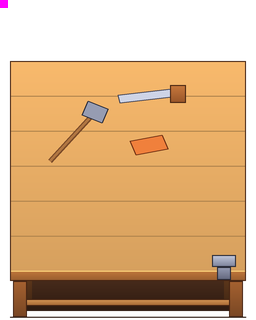
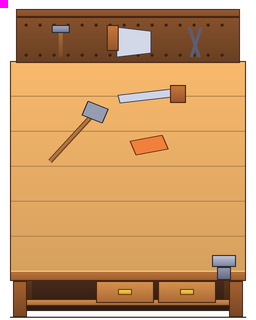
C-011 (WIP): вертикальная дверь коробом, верстак 2×2 различим по повороту, тесты зелёные
- Закрытая вертикальная дверь — короб 0,4 тайла с лицом, оковкой и ручкой; открытая — тёмный порог и упоры в проёме.
- Верстак: ящики с ручками у рабочего края, доска с инструментами напротив (0° — сзади, 90° — у западного края, 180° — у зрителя).
- Тест «нельзя перенести» — ожидание по ячейкам, а не по числу правок.

Changed region(s): [[0.0625, 0.0312, 0.9375, 0.2188], [0.375, 0.875, 0.8438, 0.9688]]

diff --git a/tools/make_furniture.py b/tools/make_furniture.py
@@ -415,10 +415,80 @@ def bench_big(face: str) -> Image.Image:
     p.poly([(130, ty + 40), (162, ty + 34), (168, ty + 48), (136, ty + 54)], (240, 128, 60, 255), (110, 46, 18, 255), 1.0)
     p.poly([(118, ty - 6), (170, ty - 12), (172, ty - 4), (120, ty + 2)], (206, 212, 230, 255), (60, 62, 80, 255), 1.0)
     p.rect(170, ty - 16, 186, ty + 2, (200, 120, 60), (150, 84, 40), edge=edge)
+    # C-011: рабочая сторона видна издалека — ящики с ручками у рабочего края, высокая доска с инструментами напротив него.
+    if face == 's':
+        bench_drawers(p, 96, 216, yf + slab, edge)
+        bench_rack_back(p, x0 + 6, x1 - 6, yb, edge)
+    elif face == 'n':
+        bench_rack_front(p, x0 + 6, x1 - 6, yf + slab, edge)
+    else:
+        bench_rack_west(p, x0, yb, yf, edge)
+        for k, yy in enumerate((yb + 140, yb + 178)):                               # ящики на восточном крае: торцы ручек
+            p.rect(x1 - 30, yy, x1 - 4, yy + 26, (214, 146, 78), (170, 104, 52), edge=edge)
+            p.rect(x1 - 12, yy + 9, x1 - 6, yy + 17, (255, 222, 96), (200, 150, 40), edge=(110, 66, 10, 255))
     p.line([(x0, GROUND), (x1, GROUND)], (40, 22, 12, 255), 1.0)
     img = p.done()
     end_pen()
     return img
+
+
+RACK, RACK_D, PEG = (122, 74, 40), (88, 52, 28), (60, 34, 18)
+
+
+def rack_face(p: Pen, x0, x1, y0, y1, edge):
+    """Лицо доски с инструментами: доска, ряды отверстий, висящие молот, пила, клещи (силуэтами)."""
+    p.rect(x0, y0, x1, y1, mul(RACK, 1.1), mul(RACK, 0.85), edge=edge)
+    for yy in (y0 + 8, y1 - 8):
+        for xx in range(int(x0) + 10, int(x1) - 6, 14):
+            p.ell(xx - 1.5, yy - 1.5, xx + 1.5, yy + 1.5, PEG + (255,))
+    w = x1 - x0
+    hx = x0 + w * 0.2                                                               # молот
+    p.rect(hx - 2, y0 + 10, hx + 2, y1 - 6, (176, 118, 66), (122, 74, 40))
+    p.rect(hx - 9, y0 + 8, hx + 9, y0 + 16, (170, 176, 198), (110, 116, 140), edge=(40, 42, 56, 255))
+    sx = x0 + w * 0.45                                                              # пила
+    p.poly([(sx, y0 + 10), (sx + 34, y0 + 14), (sx + 34, y1 - 10), (sx, y1 - 6)], (210, 216, 232, 255), (60, 62, 80, 255), 1.0)
+    p.rect(sx - 10, y0 + 8, sx + 2, y1 - 12, (200, 120, 60), (150, 84, 40), edge=edge)
+    kx = x0 + w * 0.8                                                               # клещи
+    p.line([(kx - 6, y0 + 10), (kx + 4, y1 - 6)], (90, 94, 116, 255), 3.0)
+    p.line([(kx + 6, y0 + 10), (kx - 4, y1 - 6)], (90, 94, 116, 255), 3.0)
+
+
+def bench_rack_back(p: Pen, x0, x1, yb, edge):
+    """Доска с инструментами вдоль дальнего (северного) края: стоит на столе, лицом к зрителю."""
+    hr, th = 44, 8
+    p.rect(x0, yb - hr - th, x1, yb - hr, mul(RACK, 1.25), mul(RACK, 1.05), edge=edge)
+    rack_face(p, x0, x1, yb - hr, yb + 2, edge)
+
+
+def bench_rack_front(p: Pen, x0, x1, ybase, edge):
+    """180°: доска вдоль ближнего края — к зрителю видна её задняя сторона (гладкая, с планками), стол за ней."""
+    hr, th = 44, 8
+    p.rect(x0, ybase - hr - th - 12, x1, ybase - hr - 12, mul(RACK, 1.25), mul(RACK, 1.05), edge=edge)
+    p.rect(x0, ybase - hr - 12, x1, ybase - 12, mul(RACK_D, 1.15), mul(RACK_D, 0.9), edge=edge)
+    for k in range(1, 4):
+        x = x0 + (x1 - x0) * k / 4
+        p.line([(x, ybase - hr - 10), (x, ybase - 14)], mul(RACK_D, 0.7), 1.2)
+    p.line([(x0 + 2, ybase - 34), (x1 - 2, ybase - 34)], mul(RACK_D, 0.7), 2.0)
+
+
+def bench_rack_west(p: Pen, x0, yb, yf, edge):
+    """90°: доска вдоль западного края — сверху видна толстая планка с ручками инструментов, у зрителя — её торец."""
+    hr, wd = 44, 22
+    p.rect(x0, yf - hr, x0 + wd, yf, mul(RACK, 1.0), mul(RACK, 0.8), edge=edge)        # торец
+    p.rect(x0, yb - hr, x0 + wd, yf - hr, mul(RACK, 1.25), mul(RACK, 1.05), edge=edge)  # верх доски
+    for k, yy in enumerate(range(int(yb - hr) + 20, int(yf - hr) - 10, 34)):
+        c = ((176, 118, 66), (170, 176, 198), (200, 120, 60))[k % 3]
+        p.rect(x0 + wd - 2, yy, x0 + wd + 12, yy + 8, c, mul(c, 0.8), edge=(40, 42, 56, 255))   # торчат к столу
+
+
+def bench_drawers(p: Pen, x0, x1, ytop, edge):
+    """Два ящика с латунными ручками под столешницей на рабочем (южном) крае."""
+    h = 22
+    mid = (x0 + x1) / 2
+    for a, b in ((x0, mid - 2), (mid + 2, x1)):
+        p.rect(a, ytop, b, ytop + h, (214, 146, 78), (170, 104, 52), edge=edge)
+        c = (a + b) / 2
+        p.rect(c - 7, ytop + 8, c + 7, ytop + 14, (255, 222, 96), (200, 150, 40), edge=(110, 66, 10, 255))
 
 
 def chest_turned(face: str) -> Image.Image:

diff --git a/client/Assets/Scripts/ObjectMesh.Walls.cs b/client/Assets/Scripts/ObjectMesh.Walls.cs
@@ -400,6 +400,12 @@ namespace Orpheus.Client
         /// <summary>Толщина полотна двери, тайлов.</summary>
         const float DoorLeaf = 0.16f;
 
+        /// <summary>Ширина короба закрытой вертикальной двери (C-011): шире полотна — сверху читается как дверь, а не щель в стене.</summary>
+        const float DoorLeafV = 0.4f;
+
+        /// <summary>Порог открытой вертикальной двери — тёмная полоса пустого проёма (C-011).</summary>
+        static readonly Color32 DoorSill = Srgb(70, 46, 30, 255);
+
         // Ориентация двери: горизонтальная — ряд ячеек qy (0 — северный), вертикальная — столбец qx.
         static bool DoorVertical(byte mask, out int q)
         {
@@ -470,23 +476,36 @@ namespace Orpheus.Client
 
             float x = lx + 0.5f * q + 0.25f; // середина столбца ячеек
             float yTop = top, yBot = top - 1f;
+            const float tv = DoorLeafV;
             if (!me.Open)
             {
-                Slab(x - t * 0.5f, yBot, x + t * 0.5f, yTop, white, false);
-                // Доски поперёк верха и ручка — закрытая вертикальная дверь видна сверху полосой во весь проём.
-                for (int k = 1; k < 6; k++)
+                // C-011: закрытая вертикальная дверь — короб шире стены-колонны: лицо к югу с досками и оковкой (как у
+                // горизонтальной), сверху — полотно досками поперёк, две полосы оковки у косяков и латунная ручка сбоку.
+                Slab(x - tv * 0.5f, yBot, x + tv * 0.5f, yTop, white, true);
+                float y0 = yBot + WallHeight, y1 = yTop + WallHeight;
+                for (int k = 1; k < 8; k++)
                 {
-                    float y = yBot + WallHeight + k / 6f;
-                    Solid(x - t * 0.5f, y - 0.006f, x + t * 0.5f, y + 0.006f, white, DoorSeam);
+                    float y = y0 + (y1 - y0) * k / 8f;
+                    Solid(x - tv * 0.5f + 0.02f, y - 0.007f, x + tv * 0.5f - 0.02f, y + 0.007f, white, DoorSeam);
                 }
 
-                float hy = yBot + WallHeight + 0.5f;
-                Solid(x - 0.045f, hy - 0.045f, x + 0.045f, hy + 0.045f, white, WallOutline);
-                Solid(x - 0.03f, hy - 0.03f, x + 0.03f, hy + 0.03f, white, DoorBrass);
+                foreach (float f in new[] { 0.14f, 0.86f })
+                {
+                    float y = y0 + (y1 - y0) * f;
+                    Solid(x - tv * 0.5f, y - 0.03f, x + tv * 0.5f, y + 0.03f, white, DoorIron); // оковка у косяков
+                }
+
+                float hx = x + tv * 0.5f - 0.06f, hy = y0 + (y1 - y0) * 0.5f;
+                Solid(hx - 0.05f, hy - 0.05f, hx + 0.05f, hy + 0.05f, white, WallOutline);
+                Solid(hx - 0.035f, hy - 0.035f, hx + 0.035f, hy + 0.035f, white, DoorBrass);
             }
             else
             {
-                // Петля у северного косяка; полотно — внутрь тайла (восточный столбец — к западу) и видно лицом.
+                // C-011: открытая — проём явно пуст: тёмный порог по столбцу и косяки-упоры у концов; полотно — ребром у
+                // северного косяка, повёрнуто внутрь тайла (восточный столбец — к западу) и видно лицом.
+                Solid(x - tv * 0.5f, yBot + 0.04f, x + tv * 0.5f, yTop - 0.04f, white, DoorSill);
+                Solid(x - tv * 0.5f, yBot, x + tv * 0.5f, yBot + 0.07f, white, DoorIron);
+                Solid(x - tv * 0.5f, yTop - 0.07f, x + tv * 0.5f, yTop, white, DoorIron);
                 float y0 = yTop - 0.02f - t;
                 float x0 = q == 1 ? x + t * 0.5f - len : x - t * 0.5f, x1 = q == 1 ? x + t * 0.5f : x - t * 0.5f + len;
                 Slab(x0, y0, x1, y0 + t, white, true);
@@ -525,7 +544,7 @@ namespace Orpheus.Client
                 else
                 {
                     float x = lx + 0.5f * q + 0.25f;
-                    if (!me.Open) HullShadow(x - t * 0.5f, top - 1f, x + t * 0.5f, top, h, 1f, white);
+                    if (!me.Open) HullShadow(x - DoorLeafV * 0.5f, top - 1f, x + DoorLeafV * 0.5f, top, h, 1f, white);
                     else HullShadow(q == 1 ? x + t * 0.5f - len : x - t * 0.5f, top - 0.02f - t, q == 1 ? x + t * 0.5f : x - t * 0.5f + len, top - 0.02f, h, 1f, white);
                 }
 

diff --git a/tests/Orpheus.Tests/C011TailTests.cs b/tests/Orpheus.Tests/C011TailTests.cs
@@ -472,7 +472,9 @@ namespace Orpheus.Tests
             Assert.False(plan[0].Moves);
             sim.Step();
             Assert.Equal(ObjectId.Chest, sim.World.GetObject(a3));
-            Assert.Equal(10 - 2 - queued, sim.GetEntity(me).Inv.Count(Items.StoneWall));
+            Assert.Equal(1, queued); // встала только северная половина 98 (2 ячейки)
+            Assert.Equal(ObjectId.StoneWall, sim.World.GetObject(new TileCoord(98, 100)));
+            Assert.Equal(10 - 2 - 2, sim.GetEntity(me).Inv.Count(Items.StoneWall));
         }
 
         // ------------------------------------------------ выравнивание pre-pass после сортировки
